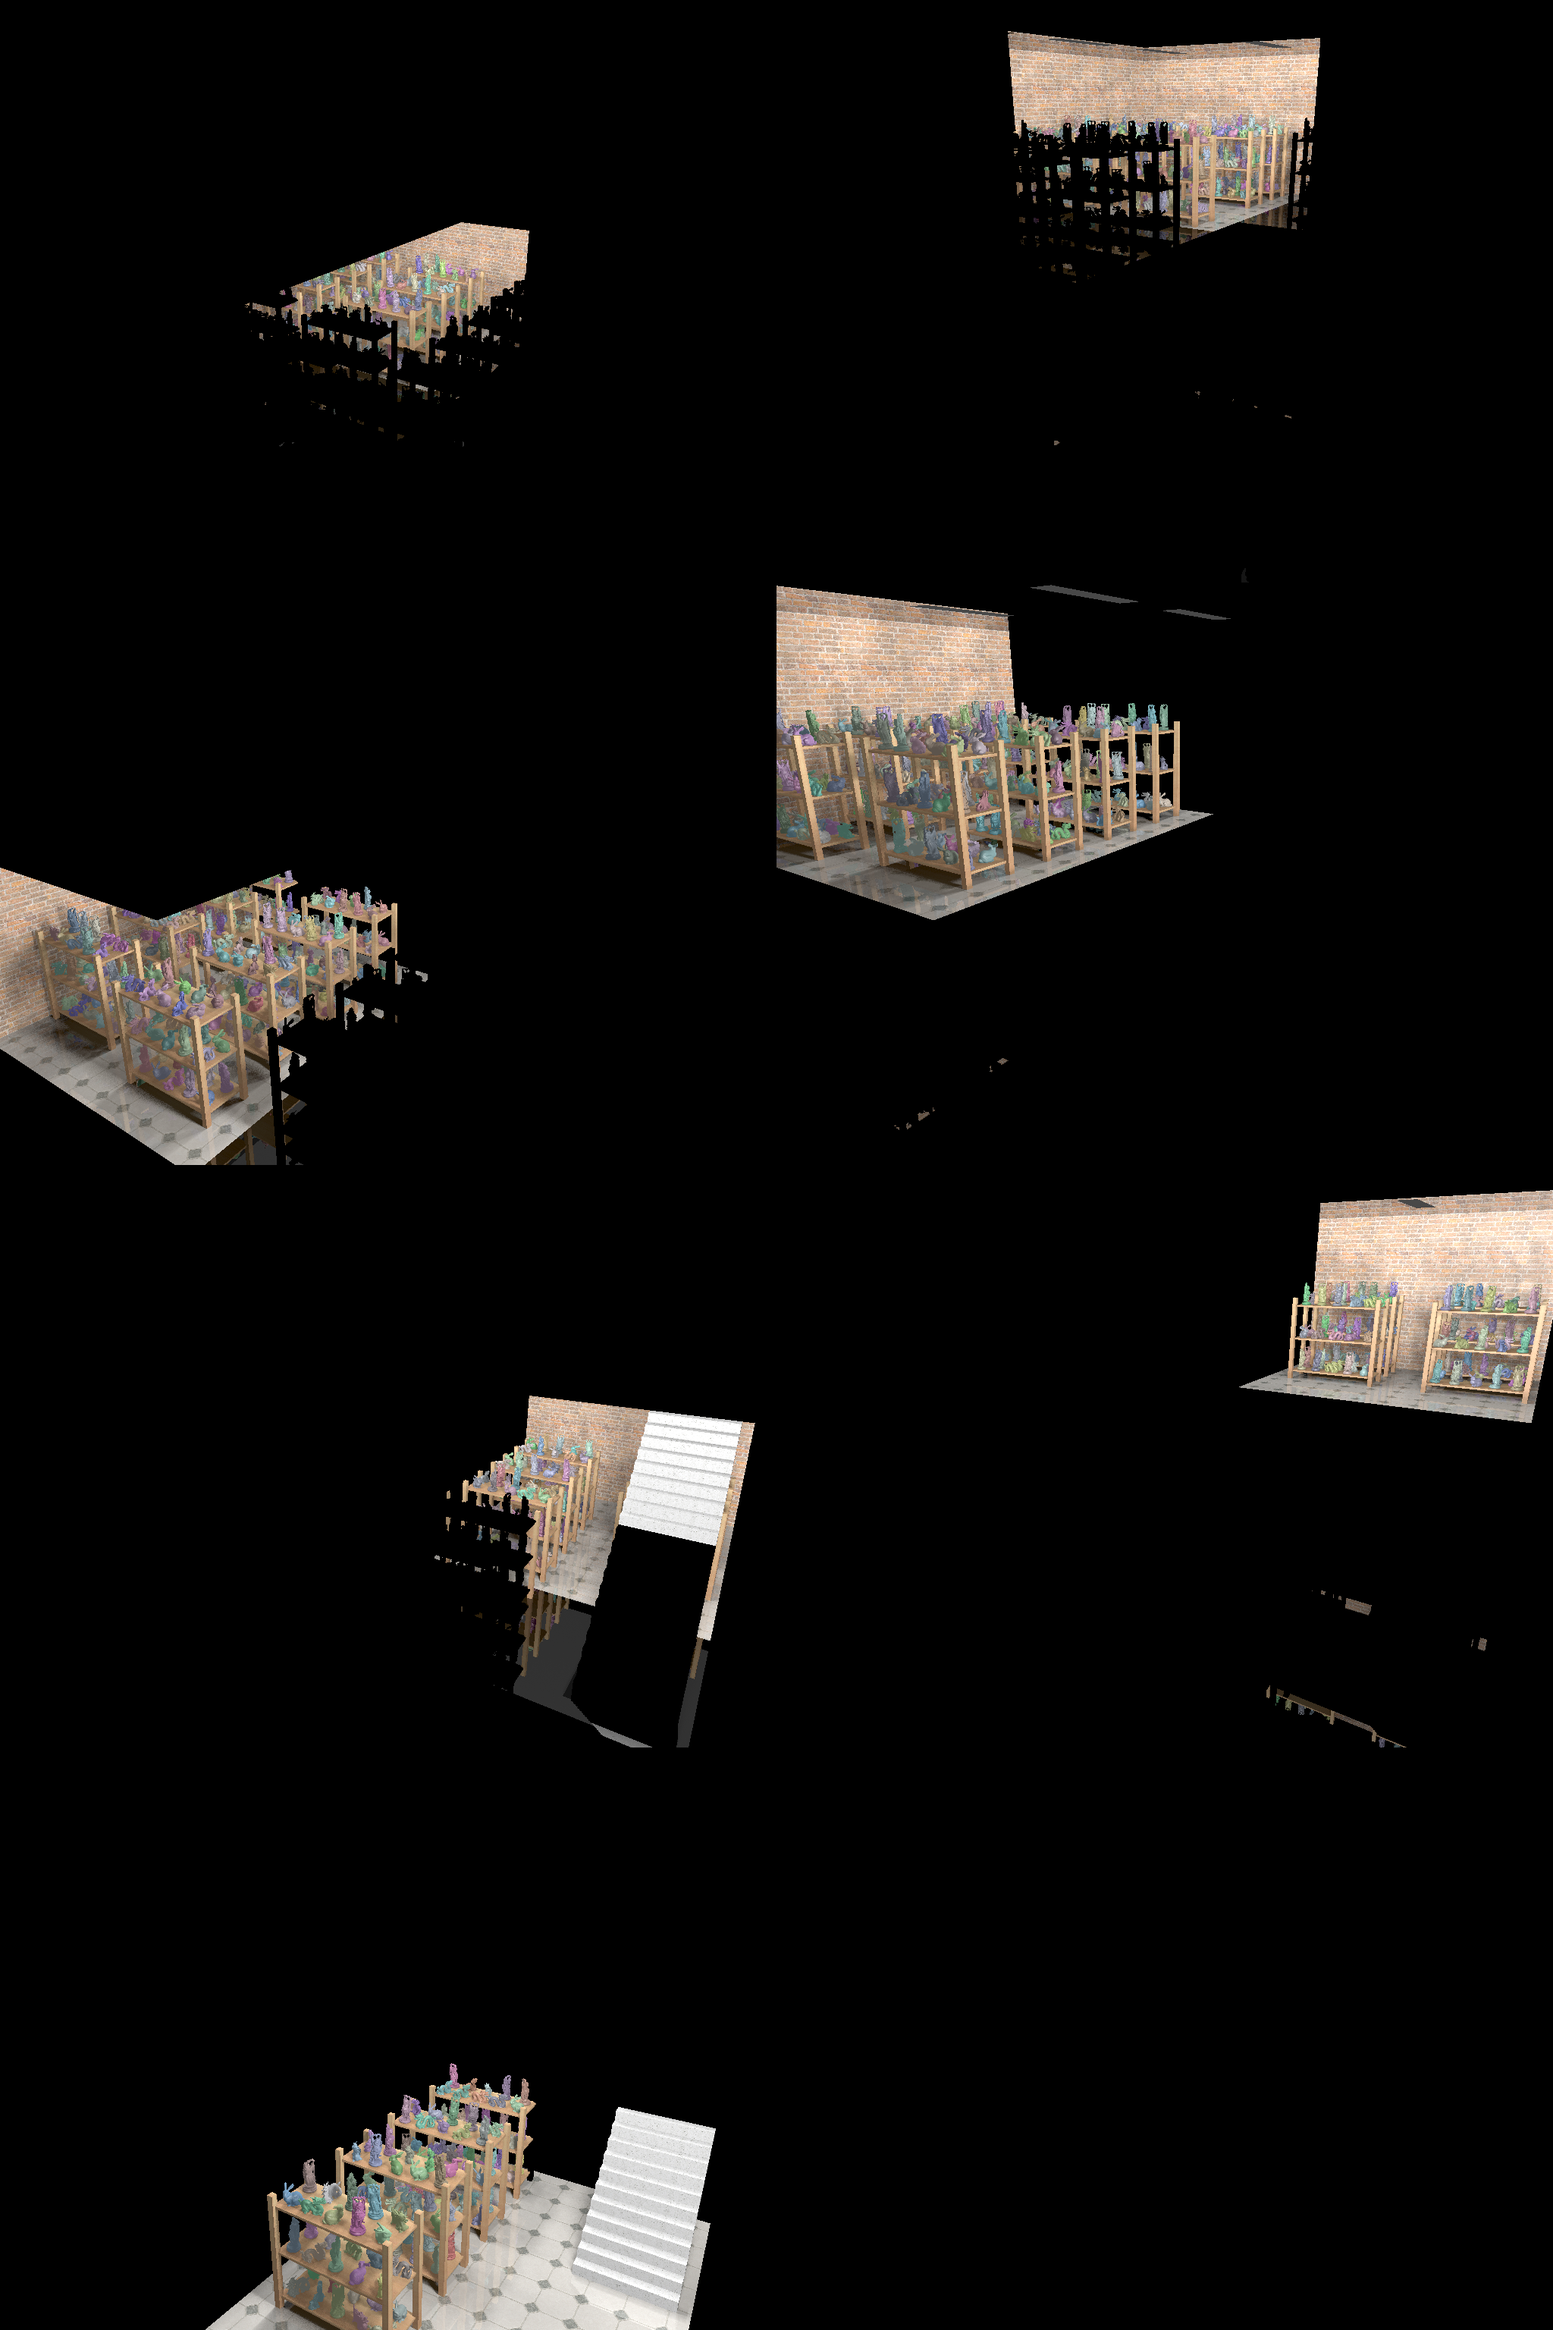
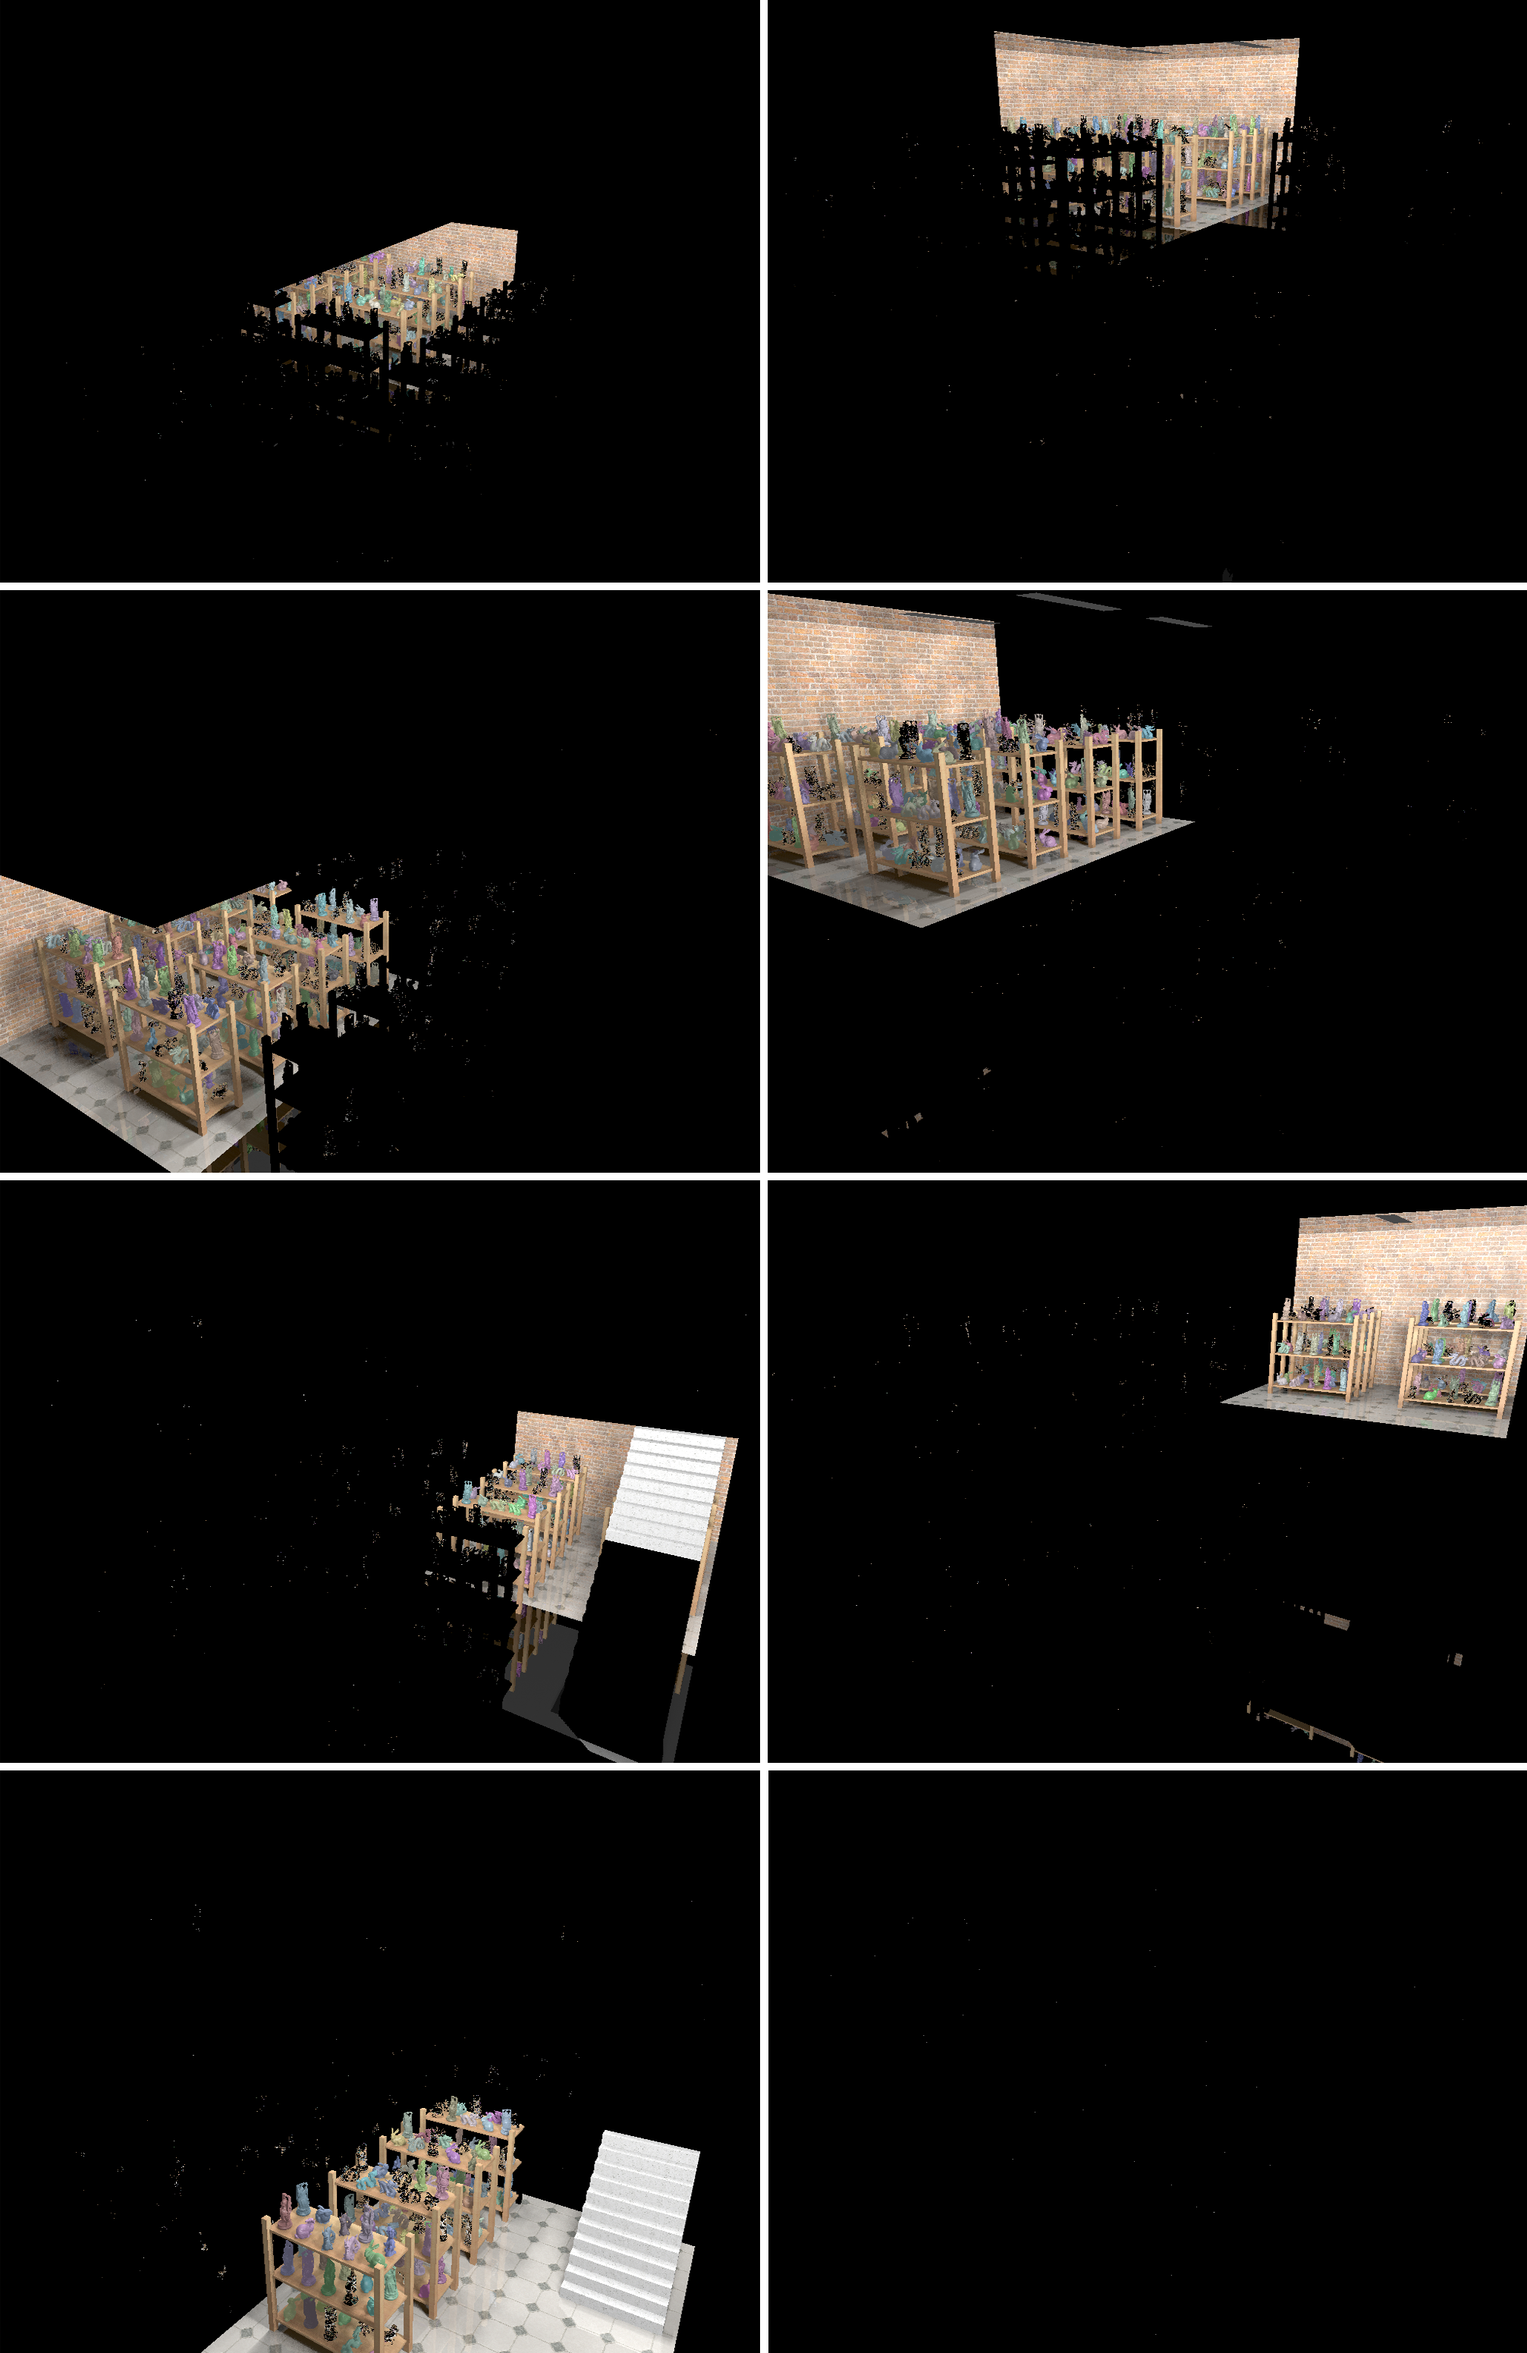
More work on results.

diff --git a/flexrender.tex b/flexrender.tex
@@ -569,7 +569,7 @@ from non-uniform rational B-splines (NURBS).
     \includegraphics[width=100mm]{images/normalmapping.png}
     \captionfonts
     \caption{Normal mapping uses a texture to store high resolution shading normals on low resolution geometry.}
-    \label{fig:netarch}
+    \label{fig:normalmapping}
 \end{figure}
 
 Two additional papers completed the puzzle. In 1998 Cohen et al. \cite{cohen:1998}
@@ -1406,8 +1406,6 @@ geometry it controlled.
     \label{fig:linearity}
 \end{figure}
 
-\textbf{TODO: redo this image, the layout sucks}
-
 \chapter{Results}
 \label{results}
 
@@ -1483,7 +1481,7 @@ then reassembled to form the final output image.
     \includegraphics[width=120mm]{images/toystore-sliced.png}
     \captionfonts
     \caption{Slices of the Toy Store scene rendered with 8 machines in the traditional configuration.}
-    \label{fig:toystore}
+    \label{fig:toystoresliced}
 \end{figure}
 
 We report time for each machine to complete each phase of rendering (loading
@@ -1574,7 +1572,13 @@ geometry across the available RAM in the cluster effectively. With the exception
 of one worker, the Morton coding and Z-order curve did a decent job of
 partitioning the scene data evenly.
 
-\textbf{TODO: geometry distribution pie chart}
+\begin{figure}[h!]
+    \centering
+    \includegraphics[width=80mm]{figures/facesperworker.png}
+    \captionfonts
+    \caption{Percentage of total geometry that was distributed to each worker.}
+    \label{fig:geomdist}
+\end{figure}
 
 The one worker which did not contain very much geometry was in the top corner
 of the Toy Store closest to the camera. This octant of the scene only contained
@@ -1605,11 +1609,75 @@ methods for reducing or removing these extra network hops.
 \section{Ray Queue Sizes}
 \label{queuesizes}
 
-\textbf{TODO: commentary}
+Keeping the ray queue size small is critical to the long term health of the
+render. If rays begin piling up faster than the cluster can process them,
+eventually the cluster will begin swapping when accessing rays, which violates
+our fundamental performance goal to stay off of disk.
 
-\textbf{TODO: ray queue size vs. time graph}
+Because of this, we benchmarked the ray queue sizes on each worker over time
+when rendering Toy Store on a cluster of 16 workers. Figure \ref{fig:queuesize}
+shows this with each renderer displayed as a different color. Table \ref{tb:rayqueues}
+breaks down the average queue size, as well as the maximum size over the course
+of the entire render and the storage requirements of the maximum size, both in
+terms of raw storage space and a fraction of the system RAM.
 
-\textbf{TODO: ray queue sizes table}
+As Table \ref{tb:rayqueues} shows, most workers sit comfortably below 1\% of
+their RAM being used for queued rays, while the busiest worker used just over
+1\%. This demonstrates that our regulation mechanisms and work throttling is
+working well to keep the cluster from generating more work than it can handle.
+
+\begin{figure}[h!]
+    \centering
+    \includegraphics[width=140mm]{figures/queuesize.png}
+    \captionfonts
+    \caption{Number of rays queued on each worker over time. Different colors correspond to different workers.}
+    \label{fig:queuesize}
+\end{figure}
+
+\begin{table}
+\begin{center}
+\begin{tabular}{|c||c|c|c|c|}
+    \hline
+    Worker & Average Queued & Max Queued & Max Storage & Memory Occupancy \\
+    \hline
+    \hline
+    1 & 107 & 12221 & 1.49 MB & 0.04\% \\
+    \hline
+    2 & 506 & 29796 & 3.64 MB & 0.09\% \\
+    \hline
+    3 & 969 & 34970 & 4.27 MB & 0.10\% \\
+    \hline
+    4 & 3116 & 57597 & 7.03 MB & 0.17\% \\
+    \hline
+    5 & 1687 & 36981 & 4.51 MB & 0.11\% \\
+    \hline
+    6 & 1430 & 44053 & 5.38 MB & 0.13\% \\
+    \hline
+    7 & 4070 & 80899 & 9.88 MB & 0.24\% \\
+    \hline
+    8 & 2000 & 16861 & 2.06 MB & 0.05\% \\
+    \hline
+    9 & 3767 & 97429 & 11.89 MB & 0.29\% \\
+    \hline
+    10 & 7921 & 178191 & 21.75 MB & 0.53\% \\
+    \hline
+    11 & 4477 & 69702 & 8.51 MB & 0.21\% \\
+    \hline
+    12 & 4943 & 92043 & 11.24 MB & 0.27\% \\
+    \hline
+    13 & 51164 & 430736 & 52.58 MB & 1.28\% \\
+    \hline
+    14 & 2193 & 45428 & 5.55 MB & 0.14\% \\
+    \hline
+    15 & 0 & 0 & 0 MB & 0.00\% \\
+    \hline
+    16 & 18 & 1374 & 0.17 MB & 0.01\% \\
+    \hline
+\end{tabular}
+\caption{Size of ray queues when rendering Toy Store with a 16-worker FlexRender cluster.}
+\label{tb:rayqueues}
+\end{center}
+\end{table}
 
 \section{Cluster Size}
 \label{clustersize}
